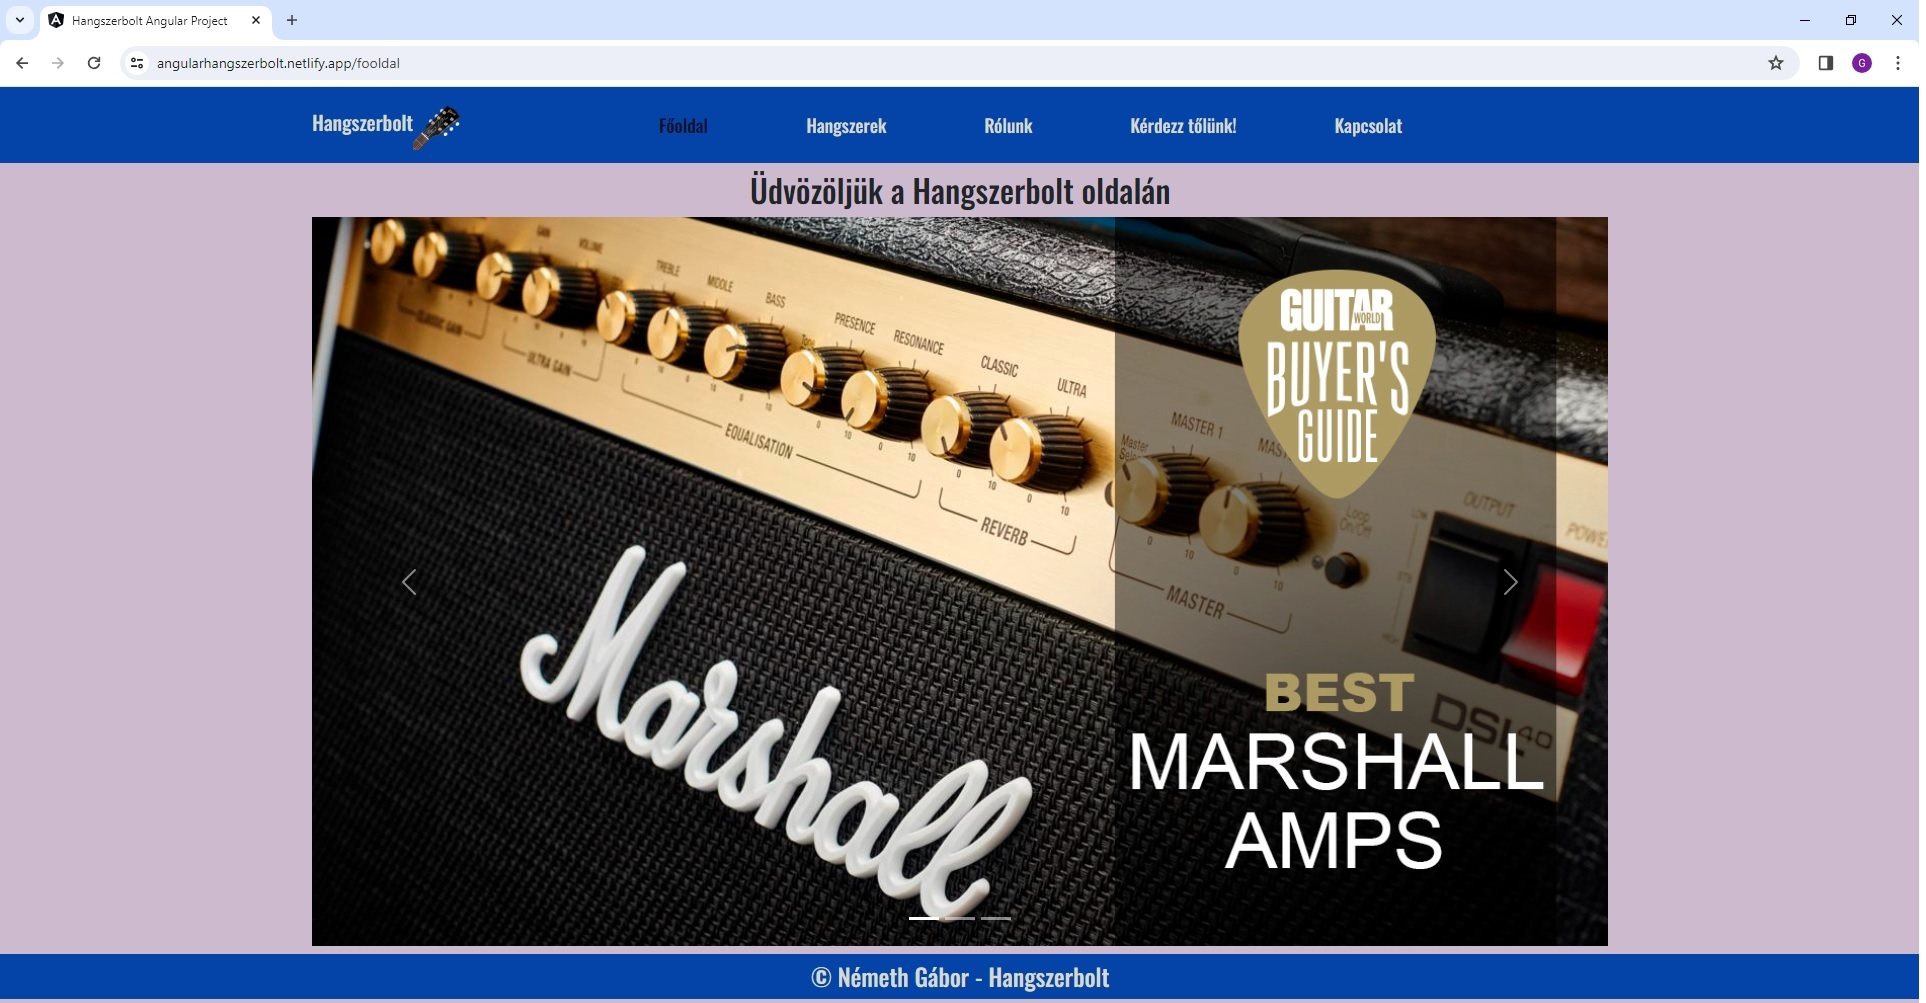
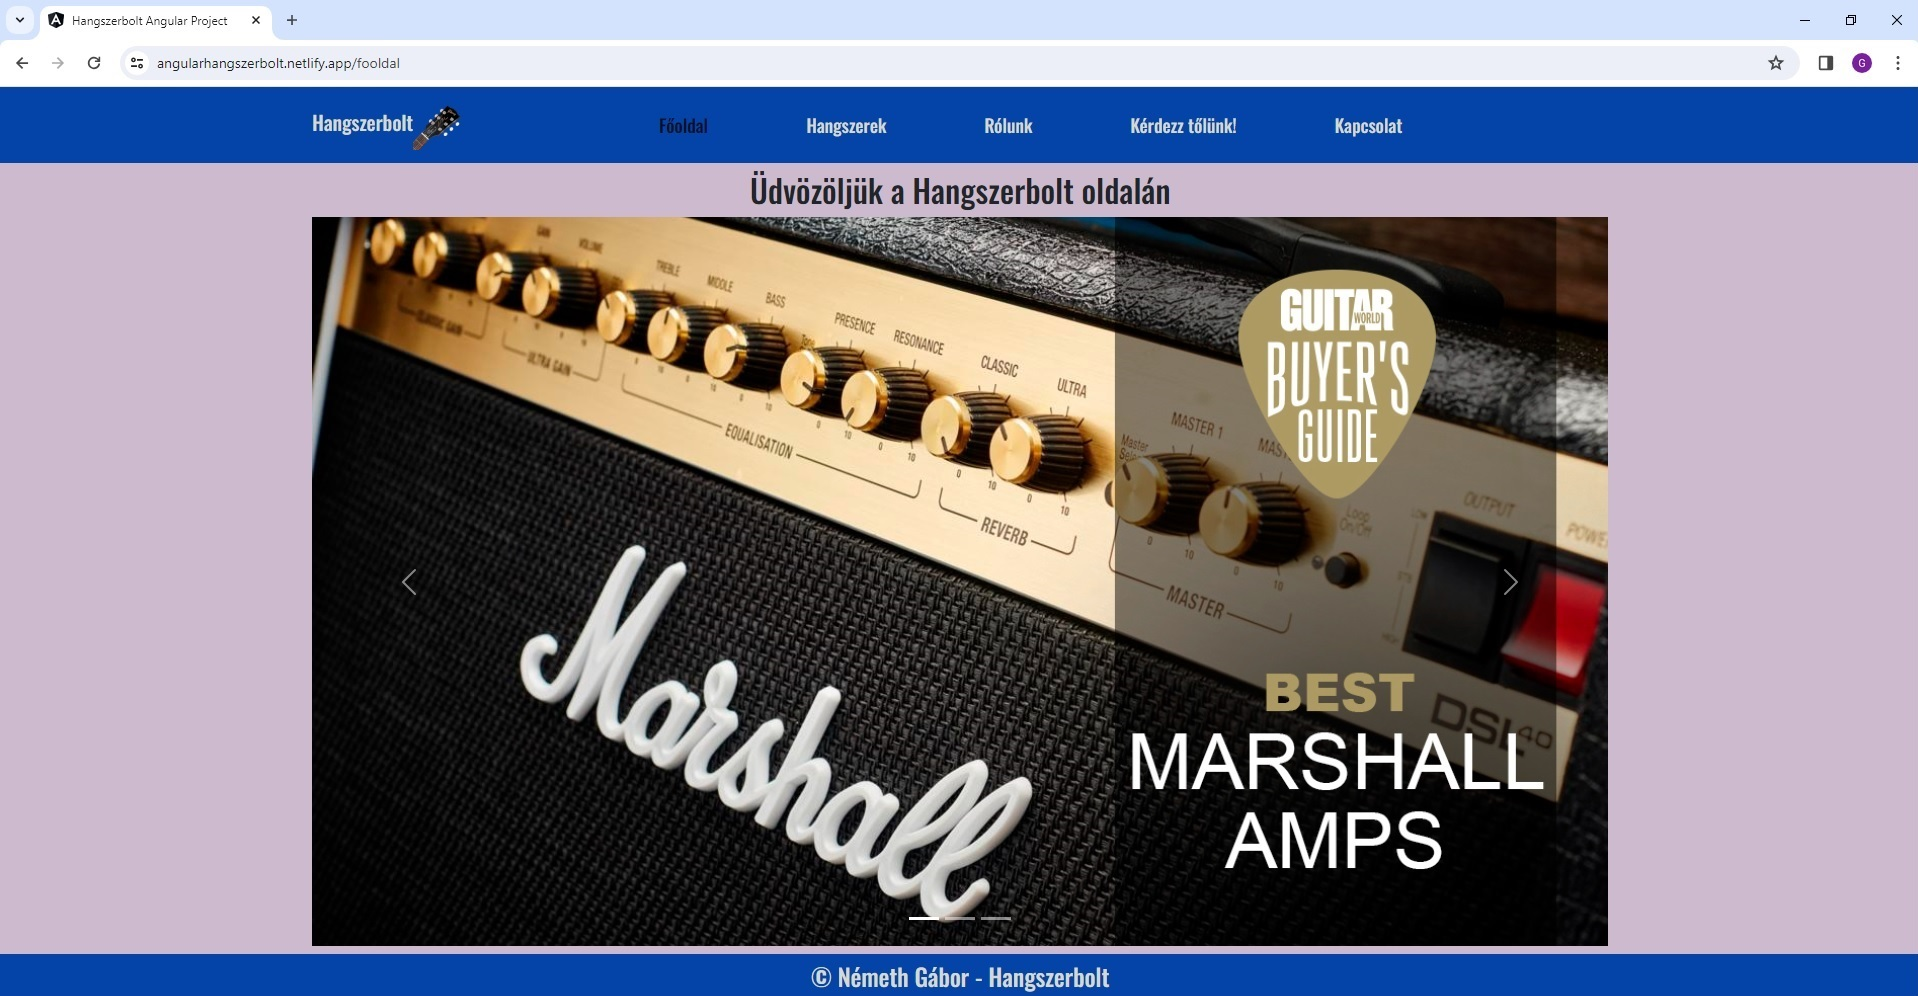
pattern

diff --git a/style.css b/style.css
@@ -1,11 +1,12 @@
 @import url('https://fonts.googleapis.com/css2?family=Aclonica&family=Rubik&display=swap');
 
-body{
+body {
     font-family: 'Rubik', sans-serif;
     background-color: rgb(198, 202, 237);
+    background-image: linear-gradient(135deg, rgba(0, 0, 0, 0.1) 25%, transparent 25%, transparent 50%, rgba(0, 0, 0, 0.1) 50%, rgba(0, 0, 0, 0.1) 75%, transparent 75%, transparent);
 }
 
-.buttons{
+.buttons {
     color: rgb(74, 82, 64);
     font-weight: bold;
     text-align: center;
@@ -13,23 +14,24 @@ body{
 
 @media (max-width: 297px) {
     .navbar-toggler {
-      order: -1;
-      margin-left: auto;
+        order: -1;
+        margin-left: auto;
     }
-  }
+}
 
-.logo{
+.logo {
     display: inline-block;
     margin: 50px 40px;
     box-shadow: 5px 5px 10px rgb(56, 55, 55);
     border-radius: 10%;
 }
 
-.logo:hover, .englishCV:hover{
+.logo:hover,
+.englishCV:hover {
     box-shadow: 5px 5px 10px rgb(5, 5, 5);
 }
 
-.englishCV{
+.englishCV {
     margin-left: 10px;
     box-shadow: 5px 5px 10px rgb(56, 55, 55);
 }
@@ -41,22 +43,22 @@ body{
     margin: 0 auto;
 }
 
-.pic:hover{
+.pic:hover {
     box-shadow: 5px 5px 10px rgb(37, 37, 37);
 }
 
-.document{
+.document {
     box-shadow: 5px 5px 10px grey;
     width: 650px;
     display: block;
     margin: auto;
 }
 
-#emailButton{
+#emailButton {
     width: 300px;
 }
 
-.avatar{
+.avatar {
     box-shadow: 5px 5px 10px grey;
     border-radius: 10%;
     width: 80%;
@@ -64,31 +66,31 @@ body{
     margin: auto;
 }
 
-h3{
+h3 {
     text-decoration-style: 20px;
 }
 
-h1{
+h1 {
     font-weight: bold;
     color: rgb(74, 82, 64);
 }
 
-.textIndent{
+.textIndent {
     text-indent: 50px;
     color: rgb(250, 243, 221);
 }
 
-.contactLogo{
+.contactLogo {
     display: inline-block;
 }
 
-ul li{
+ul li {
     padding: 5px;
     list-style: none;
     color: rgb(198, 202, 237);
 }
 
-.card-logo{
+.card-logo {
     margin: auto;
     background-color: rgb(74, 82, 64);
     box-shadow: 5px 5px 10px grey;
@@ -96,7 +98,7 @@ ul li{
     padding: 20px;
 }
 
-.card-logo2{
+.card-logo2 {
     margin: auto;
     background-color: rgb(61, 59, 142);
     box-shadow: 5px 5px 10px grey;
@@ -104,42 +106,50 @@ ul li{
     padding: 20px;
 }
 
-.card-logo:hover{
+.card-logo:hover {
     box-shadow: 5px 5px 10px rgb(41, 40, 40);
 }
 
-.card-logo2:hover{
+.card-logo2:hover {
     box-shadow: 5px 5px 10px rgb(41, 40, 40);
 }
 
-.studyColor{
+.studyColor {
     color: rgb(250, 243, 221);
 }
 
-.studyContent{
+.studyContent {
     font-size: large;
 }
 
-.badge{
+.badge {
     background-color: rgb(74, 82, 64);
     font-size: 15px;
     margin: 2px 2px 10px 2px;
 }
 
-.piclogo{
+.piclogo {
     padding-left: 10px;
 }
 
-.project{
+.project {
     margin: auto;
 }
 
-h4, p{
+h4,
+p {
     color: rgb(74, 82, 64);
 }
 
-#email, #phone{
+#email,
+#phone {
     color: rgb(250, 243, 221);
     text-decoration: none;
     letter-spacing: 1px;
+}
+
+.footer {
+    background-color: rgb(74, 82, 64);
+    background-image: linear-gradient(135deg, rgba(0, 0, 0, 0.1) 25%, transparent 25%, transparent 50%, rgba(0, 0, 0, 0.1) 50%, rgba(0, 0, 0, 0.1) 75%, transparent 75%, transparent);
+    background-repeat: repeat;
 }

diff --git a/index.html b/index.html
@@ -293,7 +293,7 @@
     </div>
   </div>
 
-  <div class="container-fluid" style="background-color: rgb(74, 82, 64);">
+  <div class="container-fluid footer">
     <div class="row">
       <div class="col-12">
         <h3 id="contact" class="py-3 textIndent">ELÉRHETŐSÉG</h3>
